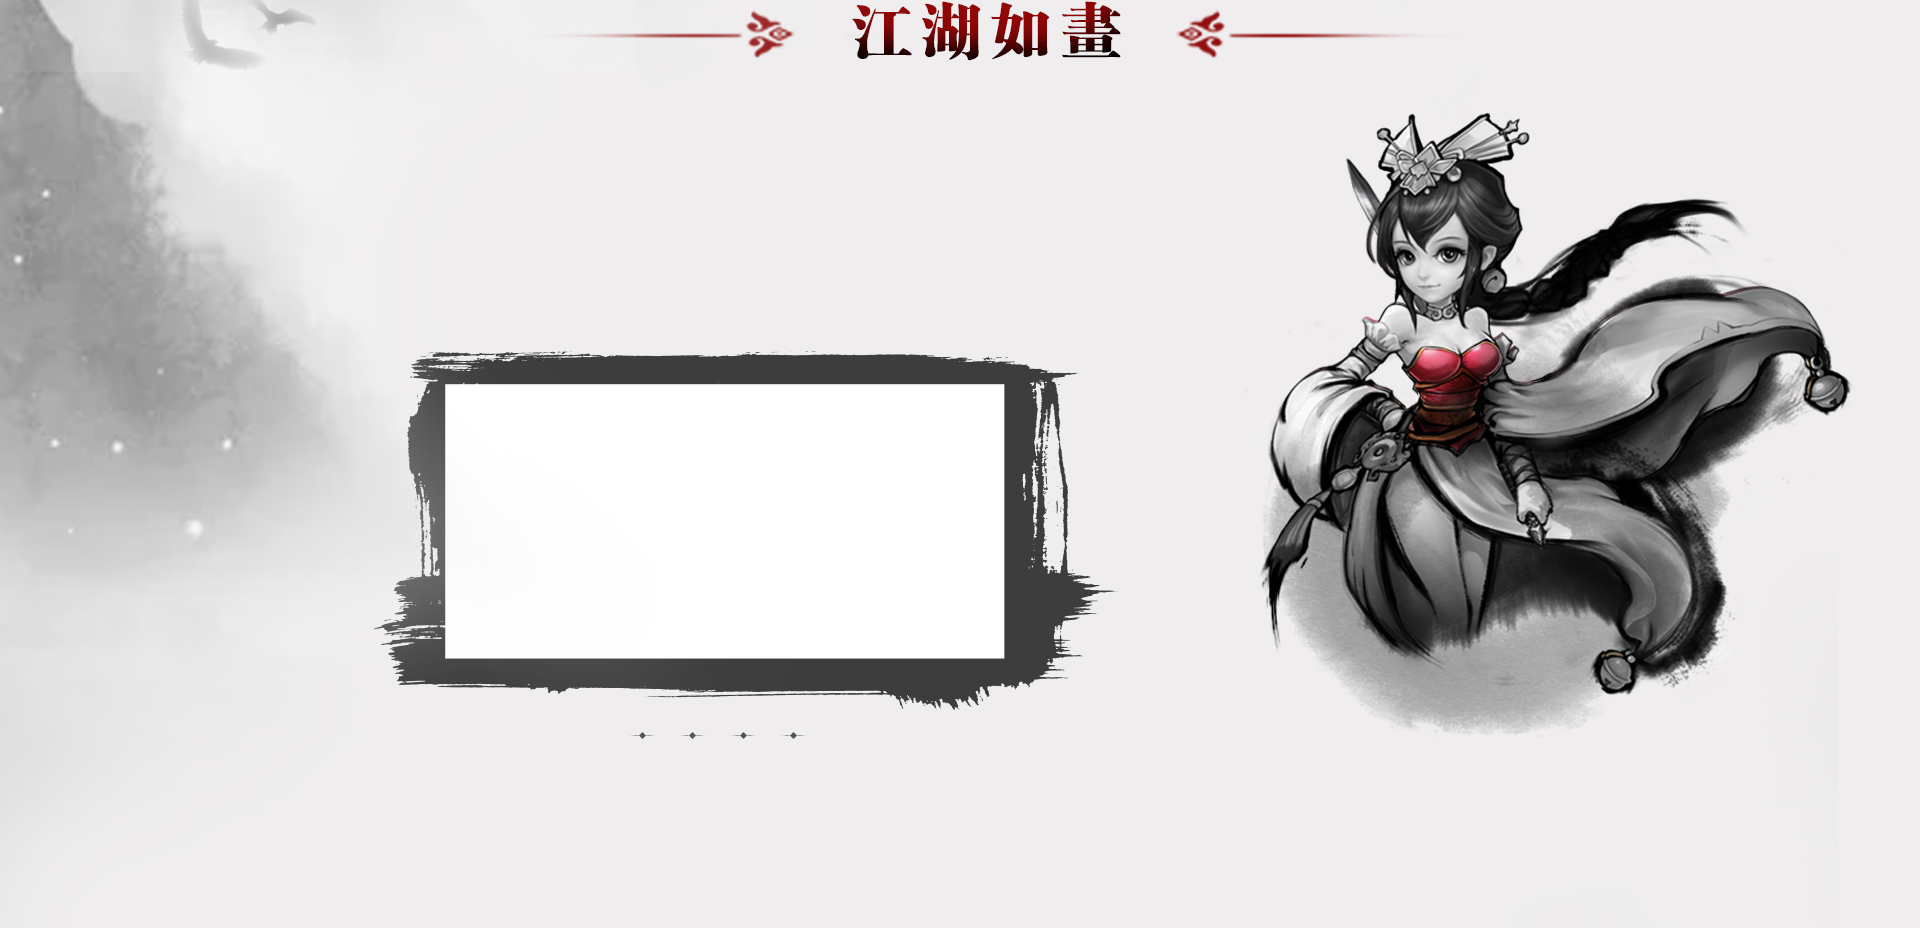
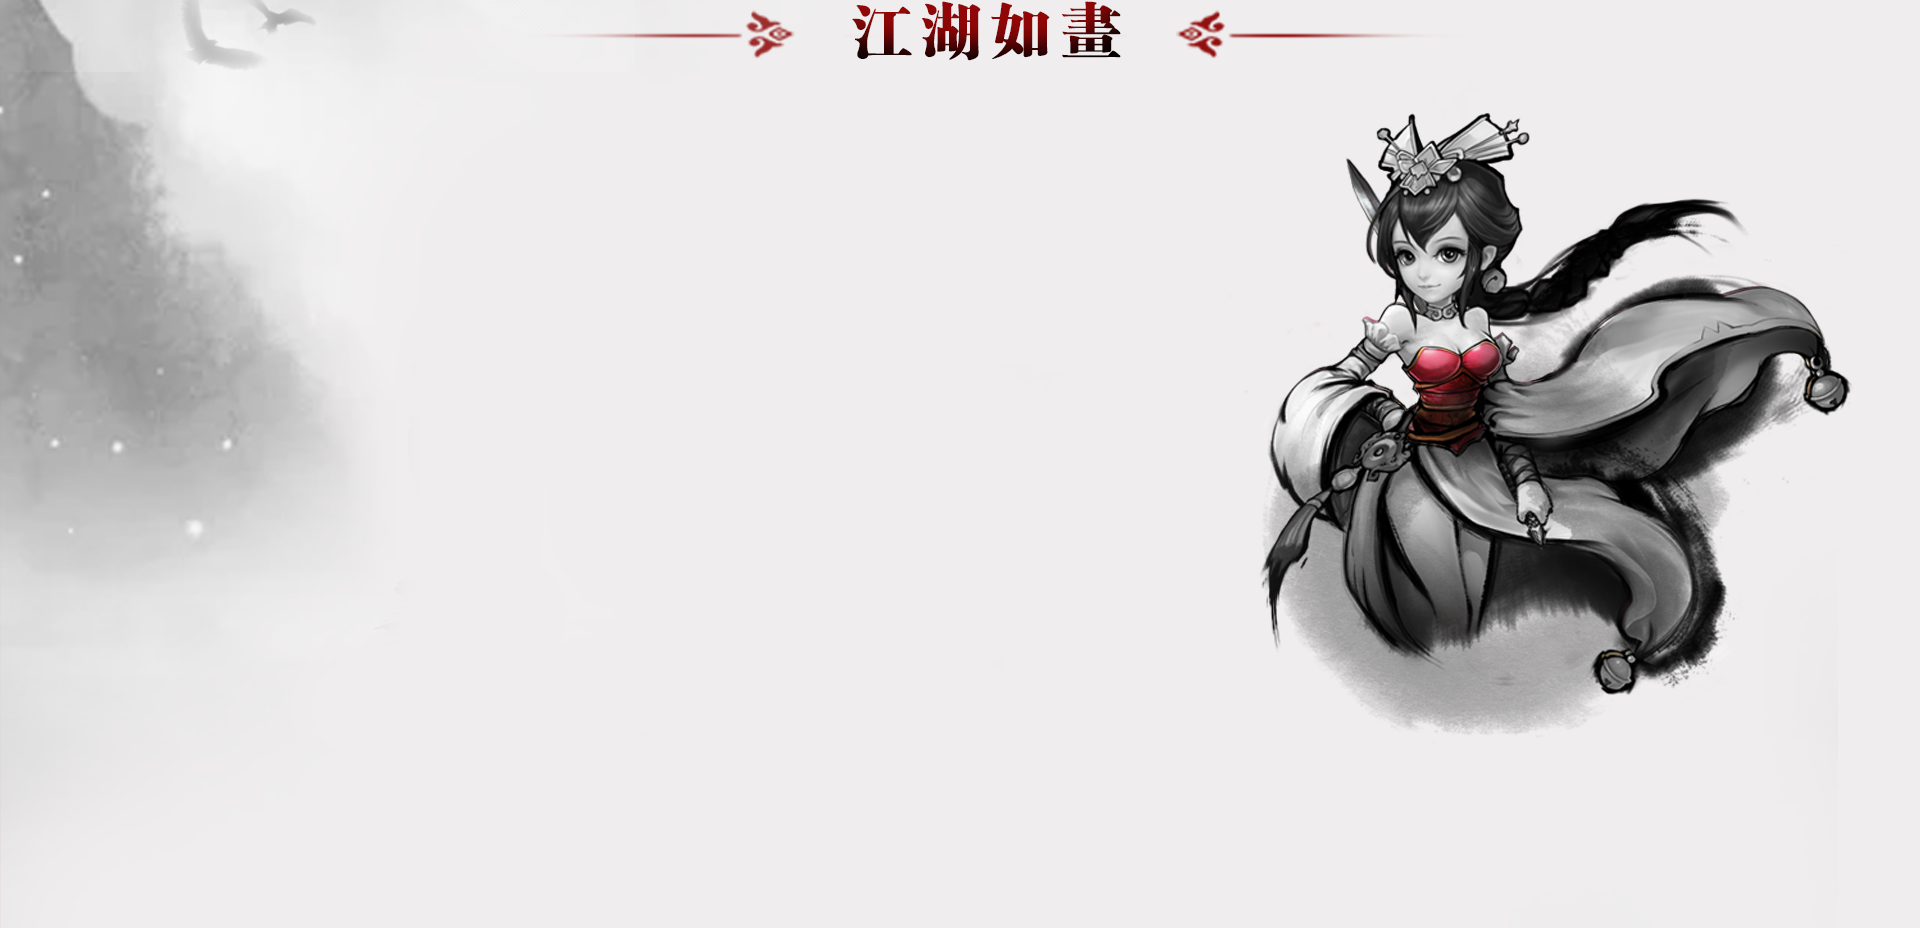
20180509

Changed region(s): [[0.1875, 0.375, 0.5938, 0.7812]]

diff --git a/src/js/swiper/swiper.scss b/src/js/swiper/swiper.scss
@@ -2,41 +2,51 @@
 
 .content3 {
 	margin: 0 auto;
-	background: url(../../images/3.png) no-repeat 0px 0px / 100% 100%;
+	background: url(../../images/3.png) no-repeat center;
+	min-width: 100%;
 
 	.comwidth {
 		width: 1226px;
 		height: 928px;
 		margin: auto;
 		overflow: hidden;
-		// position:relative;
-		.swiper-container {
-			width:560px;
-			height:379px;
-			margin:0;
-			top:384px;
-			left:100px;
-			.swiper-pagination-bullets {
-				span{
-					margin:0 17px 0 1px;
+
+		.box {
+			width:744px;
+			background:url(../../images/swiperbg.png) no-repeat center;
+			margin-top:300px;
+			margin-left:50px;
+			.swiper-container {
+				width: 560px;
+				height: 379px;
+				margin: 0;
+				top:50px;
+				left:70px;
+				.swiper-pagination-bullets {
+					span {
+						margin: 0 17px 0 1px;
+					}
+
 				}
+
+				.black {
+					width: 32px;
+					height: 32px;
+					background: url(../../images/noactive.png);
+					display: inline-block;
+				}
+
+				.red {
+					width: 32px;
+					height: 32px;
+					background: url(../../images/active.png);
+					display: inline-block;
+				}
+
 			}
 
-			.black {
-				width: 32px;
-				height: 32px;
-				background: url(../../images/noactive.png);
-				display: inline-block;
-			}
-
-			.red {
-				width: 32px;
-				height: 32px;
-				background: url(../../images/active.png);
-				display: inline-block;
-			}
-			
 		}
+
 	}
 
 }

diff --git a/src/js/swiper/swiper.html b/src/js/swiper/swiper.html
@@ -1,24 +1,26 @@
 <div class="content3 clearfix">
 	<div class="comwidth ">
-		<div class="swiper-container">
-			<div class="swiper-wrapper">
-				<div class="swiper-slide">
-					<img src="../../images/show1.jpg" alt="">
+		<div class="box">
+			<div class="swiper-container">
+				<div class="swiper-wrapper">
+					<div class="swiper-slide">
+						<img src="../../images/show1.jpg" alt="">
+					</div>
+					<div class="swiper-slide">
+						<img src="../../images/show2.jpg" alt="">
+					</div>
+					<div class="swiper-slide">
+						<img src="../../images/show3.jpg" alt="">
+					</div>
+					<div class="swiper-slide">
+						<img src="../../images/show4.jpg" alt="">
+					</div>
+					<div class="swiper-slide">
+						<img src="../../images/show5.jpg" alt="">
+					</div>
 				</div>
-				<div class="swiper-slide">
-					<img src="../../images/show2.jpg" alt="">
-				</div>
-				<div class="swiper-slide">
-					<img src="../../images/show3.jpg" alt="">
-				</div>
-				<div class="swiper-slide">
-					<img src="../../images/show4.jpg" alt="">
-				</div>
-				<div class="swiper-slide">
-					<img src="../../images/show5.jpg" alt="">
-				</div>
+				<div class="swiper-pagination"></div>
 			</div>
-			<div class="swiper-pagination"></div>
 		</div>
 	</div>
 </div>

diff --git a/src/js/video/video.html b/src/js/video/video.html
@@ -1,0 +1,9 @@
+<div class="content4">
+	<div class="comwidth">
+		<div class="title"><img src="../../images/title1.png" alt=""></div>
+		<div class="box">
+		<!-- <embed src='http://player.youku.com/player.php/sid/XMzU4ODk5NzIzMg==/v.swf' allowFullScreen='true' quality='high' width='480' height='400' align='middle' allowScriptAccess='always' type='application/x-shockwave-flash'></embed> -->
+		<iframe height=437 width=809 src='http://player.youku.com/embed/XMzU4ODk5NzIzMg==' frameborder=0 'allowfullscreen'></iframe>
+		</div>
+	</div>
+</div>

diff --git a/src/js/main.js b/src/js/main.js
@@ -3,13 +3,18 @@ import 'jquery';
 import banner from './banner/banner';
 import swiper from './swiper/swiper';
 import menpai from './menpai/menpai';
+import video from './video/video';
+import news from './news/new';
 
 require('../css/reset.scss');
 
-$(function(){
+$(function() {
 	// $("#wrap").append($(nav.tpl));
 	$("#wrap").append($(banner.tpl));
 	$("#wrap").append($(menpai.tpl));
 	$("#wrap").append($(swiper.tpl));
 	swiper.init();
+	$("#wrap").append($(video.tpl));
+	video.init();
+	$("#wrap").append($(news.tpl));
 })

diff --git a/src/js/video/video.scss b/src/js/video/video.scss
@@ -1,0 +1,36 @@
+.content4 {
+	background: url(../../images/video_bg.png) center no-repeat;
+	min-width: 100%;
+
+	.comwidth {
+		width: 1226px;
+		height: 937px;
+		margin: auto;
+		overflow: hidden;
+
+		.title {
+			img {
+				width: 1226px;
+				height: 70px;
+			}
+
+		}
+
+		.box {
+			margin: 100px auto 0px;
+			background: url(../../images/videobox.png) center no-repeat;
+			height: 568px;
+			position: relative;
+
+			iframe {
+				position: absolute;
+				left: 200px;
+				top: 50px;
+			}
+
+			}
+
+		}
+
+	}
+

diff --git a/src/js/menpai/menpai.scss b/src/js/menpai/menpai.scss
@@ -1,6 +1,6 @@
 .content2 {
-	background: url(../../images/2.png) 0 0 / 100% 100%;
-	width: 100%;
+	background: url(../../images/2.png) center;
+	min-width: 100%;
 	height: 2247px;
 
 	.comwidth {
@@ -20,13 +20,18 @@
 		}
 
 		.type {
-			margin:1px auto 1px;
+			margin:300px auto 0px;
 			li {
 				float: left;
+				margin-right:32.5px;
 			}
 
 		}
-
+		.sword{
+			margin:0px auto ;
+			background:url(../../images/sword_init.png) center/80% no-repeat;
+			height:508px;
+		}
 	}
 
 }

diff --git a/src/js/banner/banner.scss b/src/js/banner/banner.scss
@@ -1,5 +1,6 @@
 .content1 {
-	background: url(../../images/banner.png) no-repeat center/100% 100% ;
+	background: url(../../images/banner.png) no-repeat center;
+	min-width:100%;
 
 	.cont1 {
 		width: 1226px;

diff --git a/src/js/news/new.scss b/src/js/news/new.scss
@@ -1,0 +1,8 @@
+.content5{
+	background:url(../../images/news.png) center no-repeat;
+	.comwidth{
+		width:1226px;
+		margin:0 auto;
+		overflow:hidden;
+	}
+}

diff --git a/src/js/video/video.js b/src/js/video/video.js
@@ -1,0 +1,8 @@
+import Swiper from 'swiper';
+const tpl = require('./video.html');
+
+require('./video.scss');
+
+export default {
+	tpl
+}

diff --git a/src/js/news/new.js b/src/js/news/new.js
@@ -1,0 +1,8 @@
+const tpl = require('./new.html');
+
+require('./new.scss');
+
+export default {
+	tpl
+}
+

diff --git a/src/js/menpai/menpai.html b/src/js/menpai/menpai.html
@@ -17,5 +17,8 @@
 				</li>
 			</ul>
 		</div>
+		<div class="sword">
+			
+		</div>
 	</div>
 </div>

diff --git a/src/css/reset.scss b/src/css/reset.scss
@@ -66,5 +66,5 @@ img{
 
 #wrap{
     width:100%;
-    min-width:100%;
+    // min-width:100%;
 }
